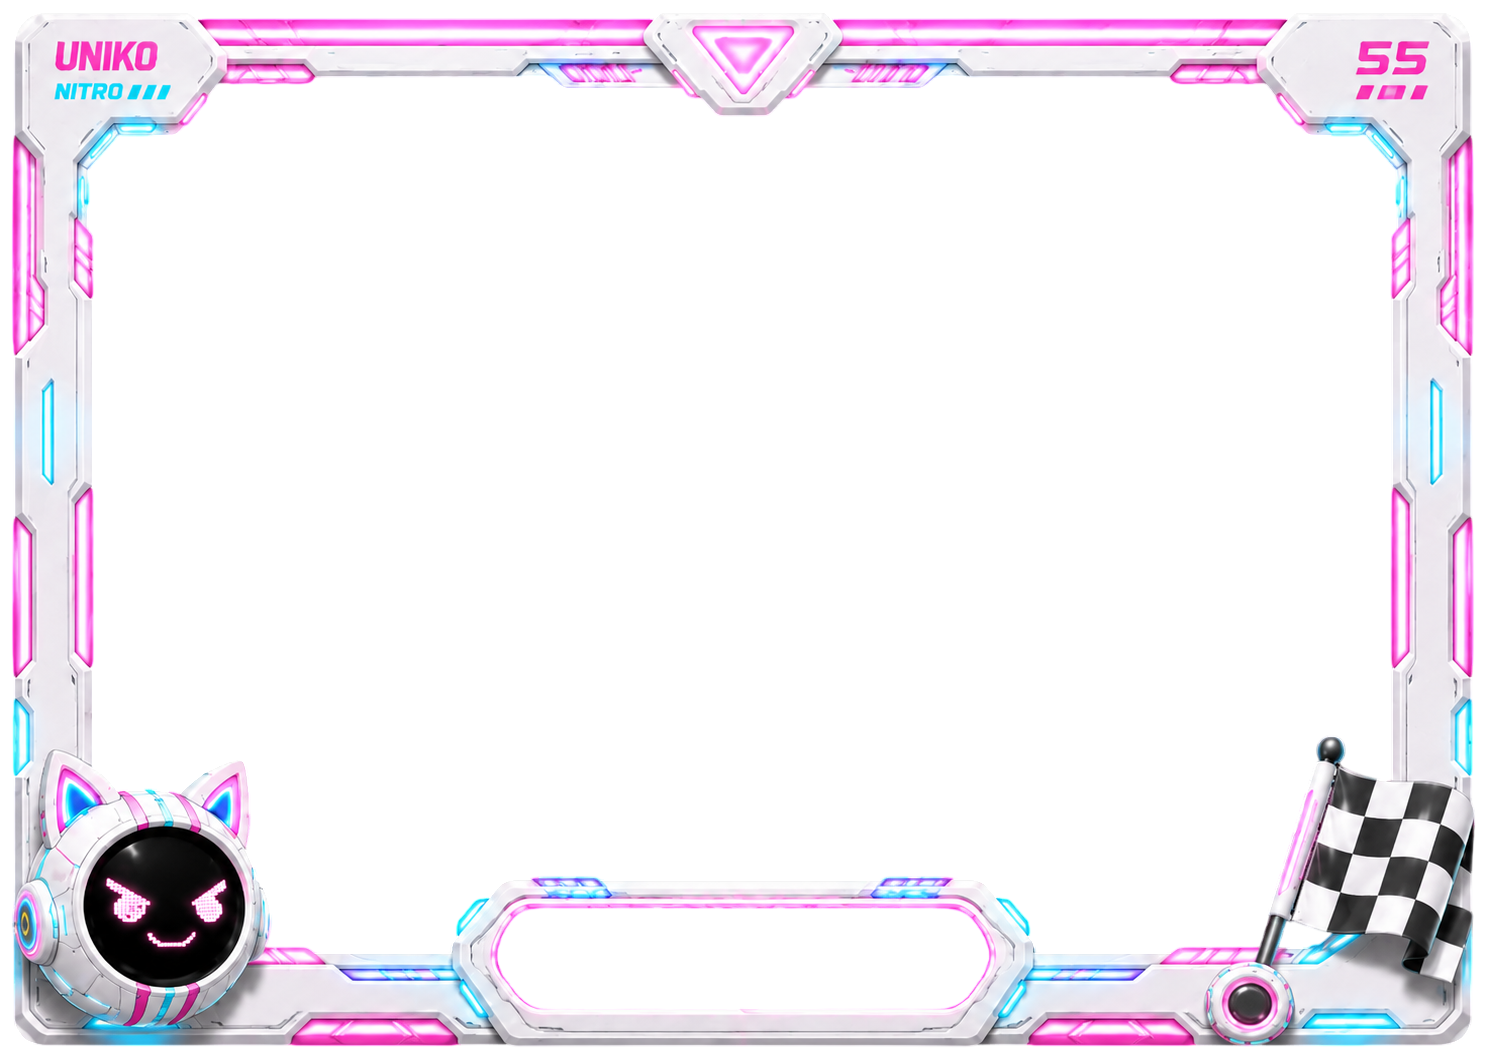
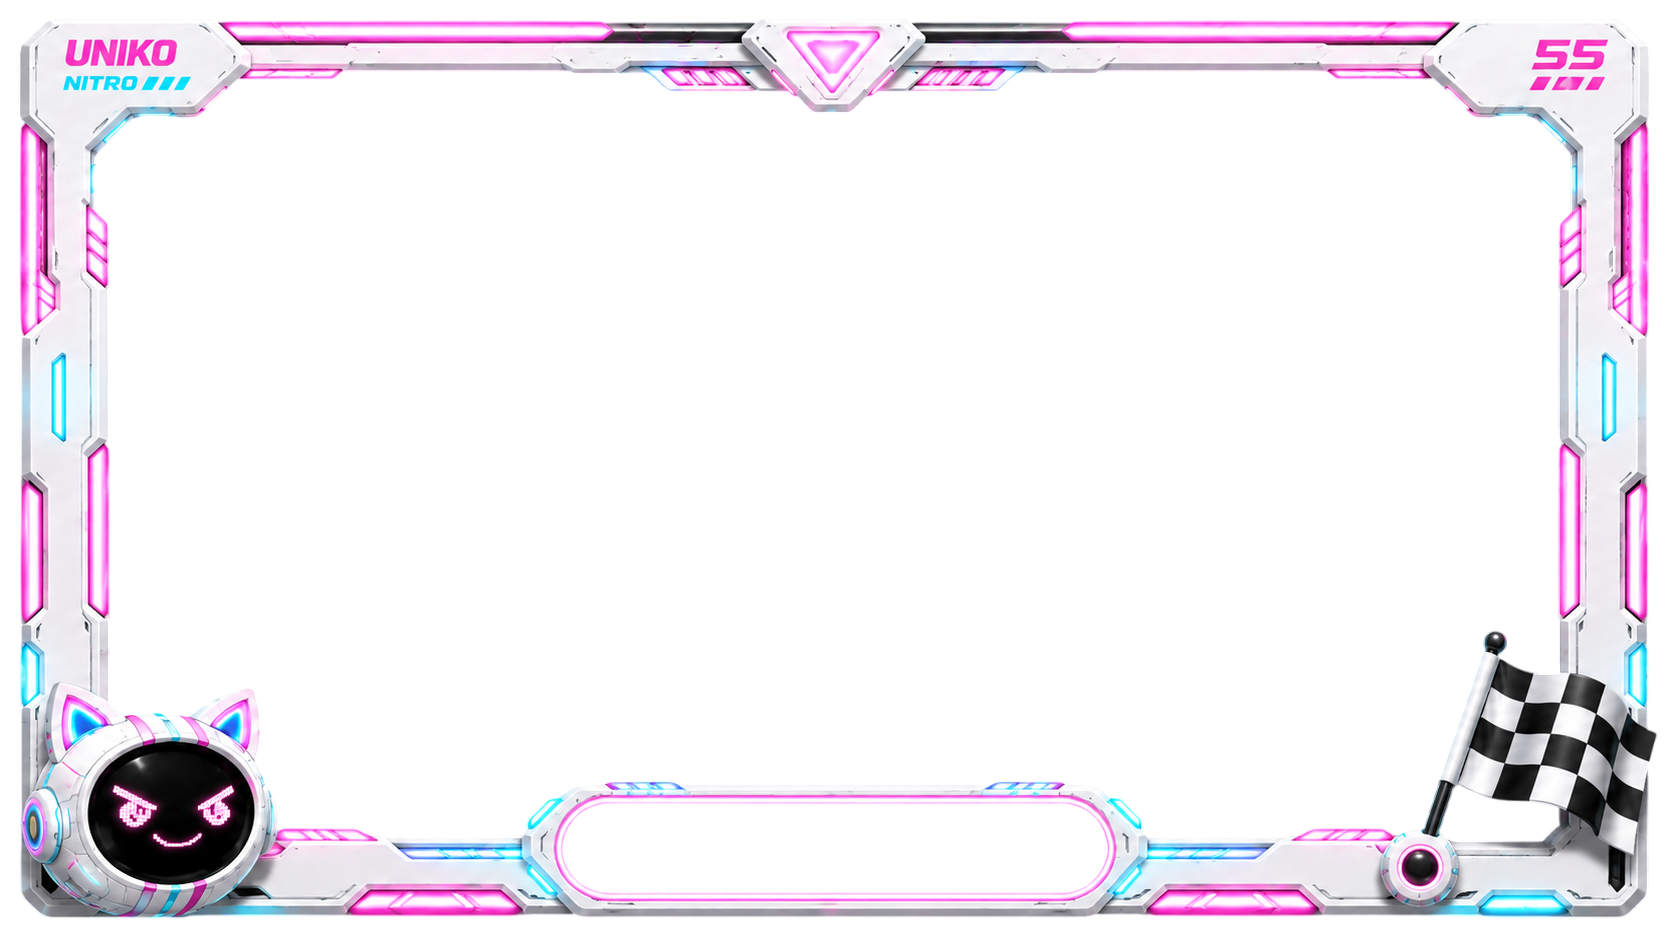
fix(uniko-speed): conteudo/JOGAR ATRAS da moldura (nada vaza) + moldura mais larga
- borda-inicial nova (1672x941, 1.78:1) -> quase sem esticamento
- conteudo e botoes ficam ATRAS da moldura (z-index abaixo) -> a borda sempre por
  cima, o slot "emoldura" o JOGAR e nada sobressai na frente
- conteudo reposicionado pra dentro da abertura (top 11%, laterais 9%)

Changed region(s): [[0.0, 0.0, 1.0, 1.0]]

diff --git a/src/modules/central-colaborador/tabs/TabUnikoFaster.jsx b/src/modules/central-colaborador/tabs/TabUnikoFaster.jsx
@@ -415,8 +415,8 @@ const TabUnikoFaster = () => {
                   background: pal.panelBg, backdropFilter: 'blur(14px)', WebkitBackdropFilter: 'blur(14px)' }}>
                   <div className="uf-grid" style={{ opacity: 0.1 }} />
                 </div>
-                {/* CONTEÚDO — ancorado no topo, centralizado */}
-                <div style={{ position: 'absolute', top: '6%', left: '8%', right: '8%', textAlign: 'center', zIndex: 2 }}>
+                {/* CONTEÚDO — dentro da abertura da moldura (atrás dela). */}
+                <div style={{ position: 'absolute', top: '11%', left: '9%', right: '9%', textAlign: 'center', zIndex: 2 }}>
                   <div style={{ display: 'inline-block', padding: '3px 13px', borderRadius: 999, fontSize: 11, fontWeight: 800,
                     letterSpacing: '.1em', background: pal.badgeBg, color: pal.badgeTx, marginBottom: 4, border: `1px solid ${pal.badgeBd}` }}>
                     EM DESENVOLVIMENTO
@@ -444,20 +444,20 @@ const TabUnikoFaster = () => {
                     </div>
                   )}
                 </div>
-                {/* TELA CHEIA — acima do JOGAR (% da altura) */}
+                {/* TELA CHEIA — acima do JOGAR (ATRÁS da moldura, na área aberta) */}
                 <button className="uf-btn" onClick={toggleTelaCheia}
-                  style={{ position: 'absolute', left: '50%', bottom: '20%', transform: 'translateX(-50%)', zIndex: 4,
+                  style={{ position: 'absolute', left: '50%', bottom: '25%', transform: 'translateX(-50%)', zIndex: 2,
                     display: 'inline-flex', alignItems: 'center', gap: 7, padding: '6px 15px', borderRadius: 999, cursor: 'pointer',
                     fontSize: 12, fontWeight: 800, color: pal.txt2, background: pal.unselBg, border: `1px solid ${pal.unselBorder}`, whiteSpace: 'nowrap' }}>
                   ⛶ {telaCheia ? 'Sair da tela cheia' : 'Tela cheia'}
                 </button>
-                {/* JOGAR — encaixado no slot (% da altura, largura ~ do slot) */}
+                {/* JOGAR — dentro do slot (ATRÁS da moldura; a borda emoldura ele) */}
                 <button className="uf-btn uf-cta" onClick={() => setEtapa(1)}
-                  style={{ position: 'absolute', left: '50%', bottom: '7%', transform: 'translateX(-50%)', zIndex: 4,
-                    ...ctaStyle, width: 'min(36%, 560px)', display: 'inline-flex', alignItems: 'center', justifyContent: 'center',
-                    fontSize: 'clamp(15px, 1.8vw, 22px)', padding: 'clamp(11px, 1.6vh, 18px) 16px', whiteSpace: 'nowrap' }}>▶ JOGAR</button>
+                  style={{ position: 'absolute', left: '50%', bottom: '8%', transform: 'translateX(-50%)', zIndex: 2,
+                    ...ctaStyle, width: 'min(32%, 500px)', display: 'inline-flex', alignItems: 'center', justifyContent: 'center',
+                    fontSize: 'clamp(14px, 1.6vw, 20px)', padding: 'clamp(9px, 1.4vh, 15px) 16px', whiteSpace: 'nowrap' }}>▶ JOGAR</button>
 
-                {/* MOLDURA por cima (centro transparente) */}
+                {/* MOLDURA por cima (centro transparente) — sempre na frente do conteúdo */}
                 <img src="/unikofaster/borda-inicial.png" alt="" aria-hidden
                   style={{ position: 'absolute', inset: 0, width: '100%', height: '100%', objectFit: 'fill', pointerEvents: 'none', zIndex: 3 }} />
               </div>
